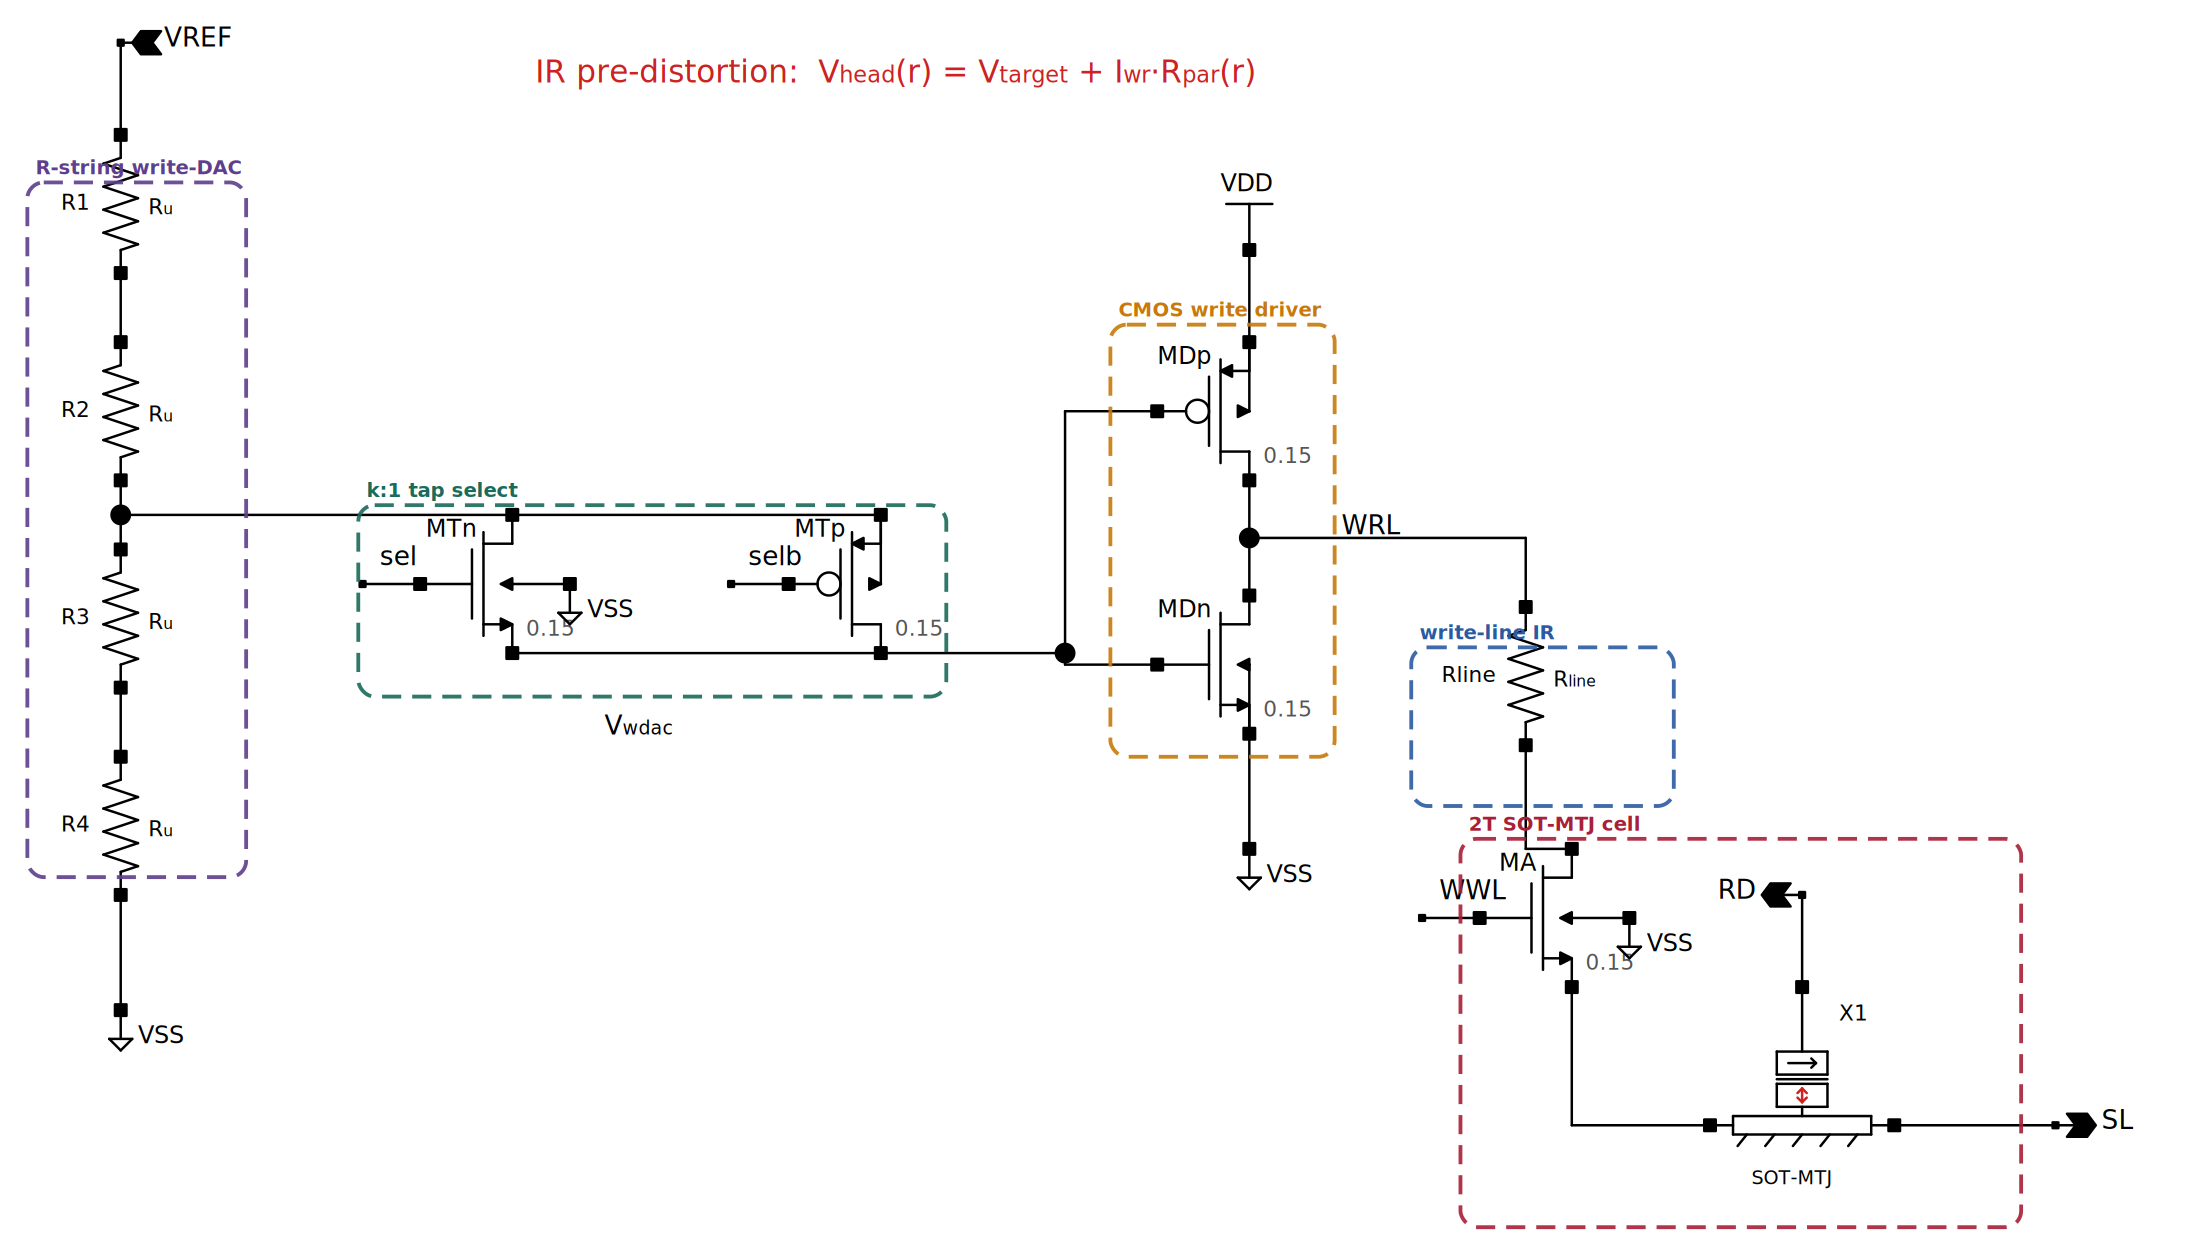
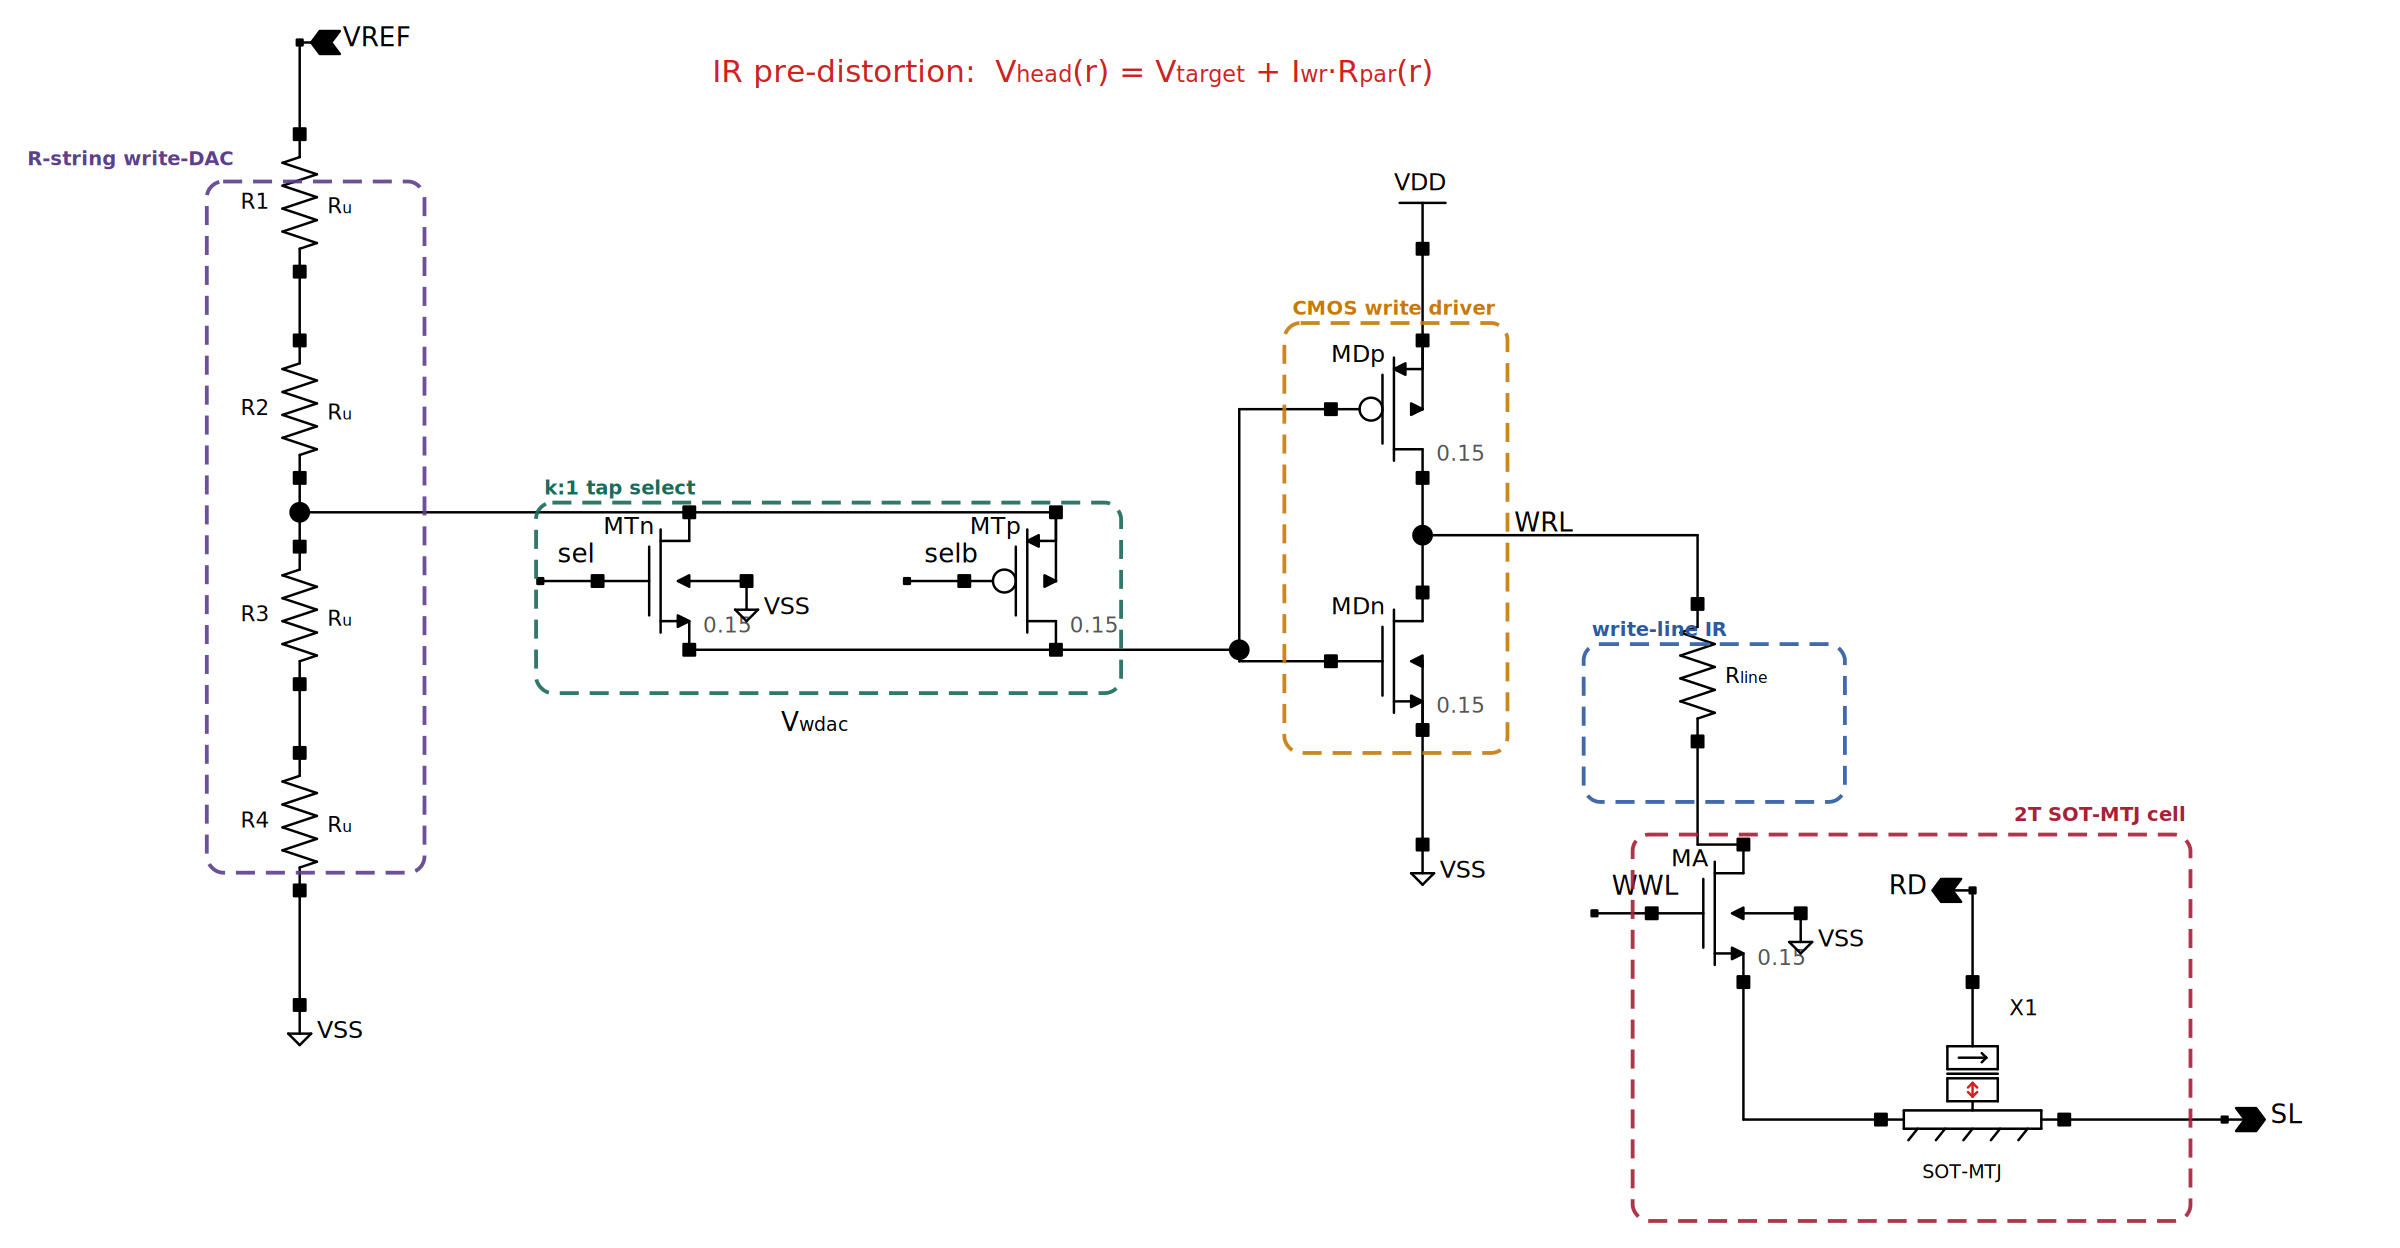
① write-path schematic: fix caption/label overlaps (Chapter04_local_19)
- Remove the duplicated bare "Rline" ref-des (the physical "R_line" subscript
  label is kept), de-cluttering the write-line IR box.
- Move the "R-string write-DAC" caption off the vertical VREF wire into the clear
  upper-left margin (the box straddles the wire, so the default top-left caption
  crossed it).
- Move the "2T SOT-MTJ cell" caption to the box top-right, away from the WWL/MA
  label cluster.
postprocess_schematic_svg.py gains a CAP_POS override (position + anchor) that
also extends the crop bbox so relocated captions are not clipped.

diff --git a/eda/hero/schematics/postprocess_schematic_svg.py b/eda/hero/schematics/postprocess_schematic_svg.py
@@ -44,10 +44,25 @@ GROUPS = {
     ]),
 }
 
-# original Xschem text labels to delete (now redrawn as coloured box captions)
+# optional caption placement overrides: base -> {caption: (x, y[, anchor])} in content
+# coords. Default is the box top-left (x+3, y-3); override to move a caption clear of
+# wiring/labels. anchor in {"start","middle","end"} (default "start").
+CAP_POS = {
+    "writepath": {
+        # the R-string box straddles the vertical VREF wire (x~120); park its caption
+        # in the clear upper-left margin instead of across the wire
+        "R-string write-DAC": (6, 60),
+        # move the cell caption to the box top-right, away from the WWL/MA label cluster
+        "2T SOT-MTJ cell": (799, 301, "end"),
+    },
+}
+
+# original Xschem text labels to delete (now redrawn as coloured box captions);
+# "Rline" is the bare resistor ref-des, duplicated by the physical "R_line" label
 REMOVE_TEXTS = {
     "writepath": ["voltage-mode resistor-string", "write-DAC (N matched taps)",
-                  "k:1 tap select", "CMOS write driver", "write-line IR", "2T SOT-MTJ cell"],
+                  "k:1 tap select", "CMOS write driver", "write-line IR", "2T SOT-MTJ cell",
+                  "Rline"],
     "sar_readout": ["column-shared", "input mux", "(time-mux)",
                     "charge-redistribution cap-DAC (binary-weighted, b bits)",
                     "StrongARM comparator"],
@@ -127,11 +142,16 @@ def main(base):
             print(f"  WARN: remove-text not found: {t!r}")
     raw = subscriptize(raw)            # X_y -> proper subscript (no "_" in figures)
 
+    caps = CAP_POS.get(base, {})
     minx, miny, maxx, maxy = content_bbox(raw)
-    # include the group captions/boxes in the bbox so they are not clipped
+    # include the group boxes (and any relocated captions) in the bbox so nothing clips
     for x, y, w, h, _, cap in boxes:
         minx = min(minx, x); miny = min(miny, y - 12)
         maxx = max(maxx, x + w); maxy = max(maxy, y + h)
+        if cap in caps:
+            cx, cy = caps[cap][0], caps[cap][1]
+            minx = min(minx, cx); miny = min(miny, cy - 10)
+            maxx = max(maxx, cx + 4.6 * len(cap)); maxy = max(maxy, cy)
     pad = 10
     minx -= pad; miny -= pad; maxx += pad; maxy += pad
     vw, vh = round(maxx - minx, 2), round(maxy - miny, 2)
@@ -147,8 +167,12 @@ def main(base):
         ov.append(f'<rect x="{x}" y="{y}" width="{w}" height="{h}" rx="6" fill="none" '
                   f'stroke="{col}" stroke-width="1.4" stroke-dasharray="7 4" opacity="0.9"/>')
         if cap:
-            ov.append(f'<text x="{x+3}" y="{y-3}" font-family="Helvetica,Arial,sans-serif" '
-                      f'font-size="7.2" fill="{col}" font-weight="bold">{cap}</text>')
+            pos = caps.get(cap, (x + 3, y - 3))
+            cx, cy = pos[0], pos[1]
+            anchor = pos[2] if len(pos) > 2 else "start"
+            ov.append(f'<text x="{cx}" y="{cy}" font-family="Helvetica,Arial,sans-serif" '
+                      f'font-size="7.2" fill="{col}" font-weight="bold" '
+                      f'text-anchor="{anchor}">{cap}</text>')
     ov.append('</g>')
     raw = raw.replace("</svg>", "\n".join(ov) + "\n</svg>")
 
